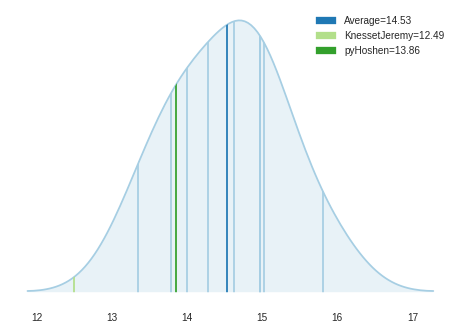
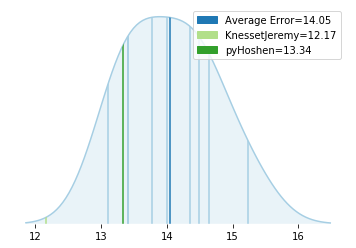
[master] correct 2019 final results
Branch: [master]

diff --git a/docs/_posts/2019-04-12-The-polls-had-systematic-error-but-the-model-explained-them-well.md b/docs/_posts/2019-04-12-The-polls-had-systematic-error-but-the-model-explained-them-well.md
@@ -22,32 +22,32 @@ In light of this, what we might ask of a model is that it also present us the va
 ## Pre-election Poll Errors
 A common method of computing poll errors is to use a distance formula, presented here under "Error":
 
-Pollster|Publication|Error|B&W-Likud|Likud|Blue & White|Shas|UTJ|Labor|Hadash-Taal|Yisrael Beitenu|Right Union|Meretz|Kulanu|Raam-Balad|New Right|Zehut|Gesher
+Pollster|Publication|Error|B&W-Likud|Likud|Blue & White|Shas|UTJ|Hadash-Taal|Labor|Yisrael Beitenu|Right Union|Meretz|Kulanu|Raam-Balad|New Right|Zehut|Gesher
 :-:|:-:|:-:|:-:|:-:|:-:|:-:|:-:|:-:|:-:|:-:|:-:|:-:|:-:|:-:|:-:|:-:|:-:
-Final [(PDF)](https://bechirot21.bechirot.gov.il/election/Documents/%D7%93%D7%95%D7%91%D7%A8%20%D7%95%D7%A2%D7%93%D7%AA%20%D7%94%D7%91%D7%97%D7%99%D7%A8%D7%95%D7%AA/letter_results.pdf)|Election|0|-1|36|35|8|7|6|6|5|5|4|4|4|0|0|0
-Midgam Proj. [(PDF)](https://bechirot21.bechirot.gov.il/election/Decisions/Documents/%D7%A1%D7%A7%D7%A8%D7%99%D7%9D/13news_5.4.19.pdf)|Ch. 13|15.02|-0.8|28.4|27.6|5|6|11|6|4|7|5|4|4|6|6|0
-Smith [(Article)](https://www.maariv.co.il/elections2019/polls/Article-692912)|Maariv|14.00|2|27|29|6|7|9|7|4|6|5|5|4|6|5|0
-Maagar Mochot [(PDF)](https://bechirot21.bechirot.gov.il/election/Decisions/Documents/%D7%A1%D7%A7%D7%A8%D7%99%D7%9D/radio103_5.4.19.pdf)|103FM|14.97|3|28|31|6|7|9|7|0|7|7|6|0|6|6|0
-Panels [(Article)](https://elections.walla.co.il/item/3228485)|Walla|13.78|1|29|30|5|6|10|8|4|7|6|0|4|6|5|0
-Midgam [(PDF)](https://bechirot21.bechirot.gov.il/election/Decisions/Documents/%D7%A1%D7%A7%D7%A8%D7%99%D7%9D/news_4.4.19.pdf)|Ch. 12|14.63|4|26|30|5|7|10|7|5|5|5|5|4|6|5|0
-TNS [(Article)](https://twitter.com/kann_news/status/1113853811330822145)|Kann|13.34|-1|31|30|4|6|8|8|0|6|6|5|4|6|6|0
-Smith [(Article)](https://www.jpost.com/Israel-News/Post-poll-predicts-easy-win-for-Right-585821)|Jerusalem Post|14.28|1|27|28|6|6|9|6|5|6|5|5|4|5|4|4
-Midgam [(PDF)](https://bechirot21.bechirot.gov.il/election/Decisions/Documents/%D7%A1%D7%A7%D7%A8%D7%99%D7%9D/yedioth_4.4.19.pdf)|Yediot Achronot|14.97|4|26|30|5|7|11|7|4|5|5|5|4|6|5|0
-Maagar Mochot [(PDF)](https://bechirot21.bechirot.gov.il/election/Decisions/Documents/%D7%A1%D7%A7%D7%A8%D7%99%D7%9D/israel_hayom_4.4.19.pdf)|Yisrael Hayom|15.81|5|27|32|5|8|10|6|0|6|8|6|0|6|6|0
+Final [(PDF)](https://bechirot.gov.il/election/Documents/%D7%93%D7%95%D7%91%D7%A8%20%D7%95%D7%A2%D7%93%D7%AA%20%D7%94%D7%91%D7%97%D7%99%D7%A8%D7%95%D7%AA/elections21_final_results.pdf)|Election|0|0|35|35|8|8|6|6|5|5|4|4|4|0|0|0
+Midgam Proj. [(PDF)](https://bechirot21.bechirot.gov.il/election/Decisions/Documents/%D7%A1%D7%A7%D7%A8%D7%99%D7%9D/13news_5.4.19.pdf)|Ch. 13|14.64|-0.8|28.4|27.6|5|6|6|11|4|7|5|4|4|6|6|0
+Smith [(Article)](https://www.maariv.co.il/elections2019/polls/Article-692912)|Maariv|13.42|2|27|29|6|7|7|9|4|6|5|5|4|6|5|0
+Maagar Mochot [(PDF)](https://bechirot21.bechirot.gov.il/election/Decisions/Documents/%D7%A1%D7%A7%D7%A8%D7%99%D7%9D/radio103_5.4.19.pdf)|103FM|14.49|3|28|31|6|7|7|9|0|7|7|6|0|6|6|0
+Panels [(Article)](https://elections.walla.co.il/item/3228485)|Walla|13.42|1|29|30|5|6|8|10|4|7|6|0|4|6|5|0
+Midgam [(PDF)](https://bechirot21.bechirot.gov.il/election/Decisions/Documents/%D7%A1%D7%A7%D7%A8%D7%99%D7%9D/news_4.4.19.pdf)|Ch. 12|14.00|4|26|30|5|7|7|10|5|5|5|5|4|6|5|0
+TNS [(Article)](https://twitter.com/kann_news/status/1113853811330822145)|Kann|13.11|-1|31|30|4|6|8|8|0|6|6|5|4|6|6|0
+Smith [(Article)](https://www.jpost.com/Israel-News/Post-poll-predicts-easy-win-for-Right-585821)|Jerusalem Post|13.78|1|27|28|6|6|6|9|5|6|5|5|4|5|4|4
+Midgam [(PDF)](https://bechirot21.bechirot.gov.il/election/Decisions/Documents/%D7%A1%D7%A7%D7%A8%D7%99%D7%9D/yedioth_4.4.19.pdf)|Yediot Achronot|14.35|4|26|30|5|7|7|11|4|5|5|5|4|6|5|0
+Maagar Mochot [(PDF)](https://bechirot21.bechirot.gov.il/election/Decisions/Documents/%D7%A1%D7%A7%D7%A8%D7%99%D7%9D/israel_hayom_4.4.19.pdf)|Yisrael Hayom|15.23|5|27|32|5|8|6|10|0|6|8|6|0|6|6|0
 
-Using a distance formula, the final pre-election polls had errors ranging from 13.34 to 15.02 and averaging at 14.53.
+Using a distance formula, the final pre-election polls had errors ranging from 13.11 to 15.23 and averaging at 14.05.
 
 ## How the Model Performed
 With the final results, we can now also compare the model's forecast to the polls and to another forecast by Knesset Jeremy. For comparison, I'm also adding here the simple average of all pre-election polls:
 
-Forecast|Error|B&W-Likud|Likud|Blue & White|Shas|UTJ|Labor|Hadash-Taal|Yisrael Beitenu|Right Union|Meretz|Kulanu|Raam-Balad|New Right|Zehut|Gesher
+Forecast|Error|B&W-Likud|Likud|Blue & White|Shas|UTJ|Hadash-Taal|Labor|Yisrael Beitenu|Right Union|Meretz|Kulanu|Raam-Balad|New Right|Zehut|Gesher
 :-:|:-:|:-:|:-:|:-:|:-:|:-:|:-:|:-:|:-:|:-:|:-:|:-:|:-:|:-:|:-:|:-:
-Final|0|-1|36|35|8|7|6|6|5|5|4|4|4|0|0|0
-Poll Average|13.85|2.02|27.71|29.73|5.22|6.67|9.67|6.89|2.89|6.11|5.78|4.56|3.11|5.89|5.33|0.44
-[pyHoshen](https://pyhoshen.org/2019/04/07/2019-Election-Final-Forecast.html)|13.86|3|28|31|6|7|10|8|0|6|4|5|4|6|5|0
-[Knesset Jeremy](https://knessetjeremy.com/2019/04/07/knessetjeremy-phase-2-prediction-analysis/)|12.49|-1|30|29|5|6|9|7|4|6|5|4|4|6|5|0
+Final|0|0|35|35|8|8|6|6|5|5|4|4|4|0|0|0
+Poll Average|13.34|2.02|27.71|29.73|5.22|6.67|6.89|9.67|2.89|6.11|5.78|4.56|3.11|5.89|5.33|0.44
+[pyHoshen](https://pyhoshen.org/2019/04/07/2019-Election-Final-Forecast.html)|13.34|3|28|31|6|7|8|10|0|6|4|5|4|6|5|0
+[Knesset Jeremy](https://knessetjeremy.com/2019/04/07/knessetjeremy-phase-2-prediction-analysis/)|12.17|-1|30|29|5|6|7|9|4|6|5|4|4|6|5|0
 
-So first, hats off to Knesset Jeremy whose [prediction](https://knessetjeremy.com/2019/04/07/knessetjeremy-phase-2-prediction-analysis/) beat all the polls. Its "distance" is 12.49 which is about one mandate less than the closest poll by TNS at 13.34. It also correctly predicted that Likud would have a 1 mandate advantage over Blue & White!
+So first, hats off to Knesset Jeremy whose [prediction](https://knessetjeremy.com/2019/04/07/knessetjeremy-phase-2-prediction-analysis/) beat all the polls. Its "distance" is 12.17 which is about one mandate less than the closest poll by TNS at 13.11. It was also very close in its prediction that Likud would have a 1 mandate advantage over Blue & White. The Likud sometimes had this mandate depending on the progress of the count, and this mandate is currently being [appealed in courts](https://www.theyeshivaworld.com/news/israel-news/1723870/high-court-seeking-additional-proof-in-petition-challenging-pindrus-eighth-seat.html).
 
 But [the pyHoshen model's prediction](https://pyhoshen.org/2019/04/07/2019-Election-Final-Forecast.html) also was relatively good. We can see this in the graph below:
 
